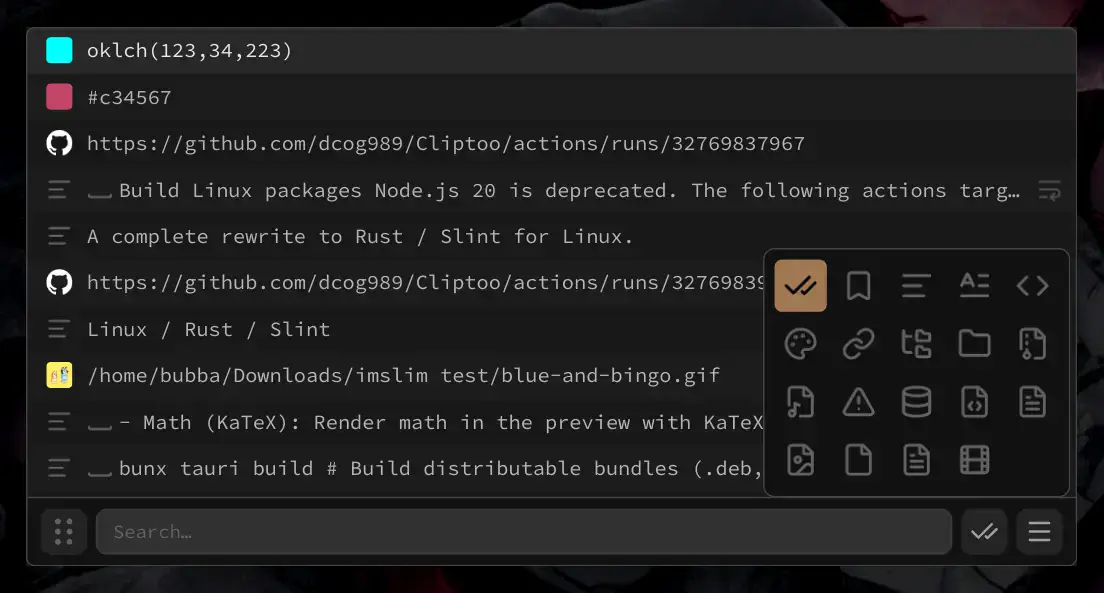
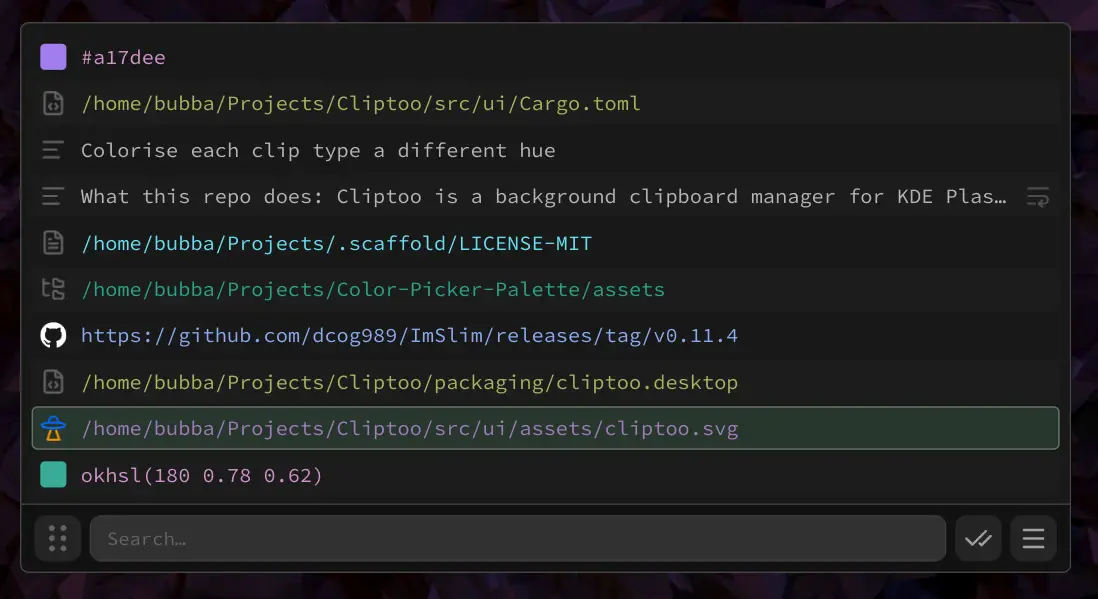
chore: update screenshots

diff --git a/README.md b/README.md
@@ -3,6 +3,10 @@
 Advanced Linux clipboard manager. Use your clip history as a library of things. Rust, Slint, and SQLite = small footprint and fast performance.
 
 ![screen-1](assets/screen-1.webp)
+![screen-2](assets/screen-2.webp)
+![screen-3](assets/screen-3.webp)
+![screen-4](assets/screen-4.webp)
+![screen-5](assets/screen-5.webp)
 
 ---
 
